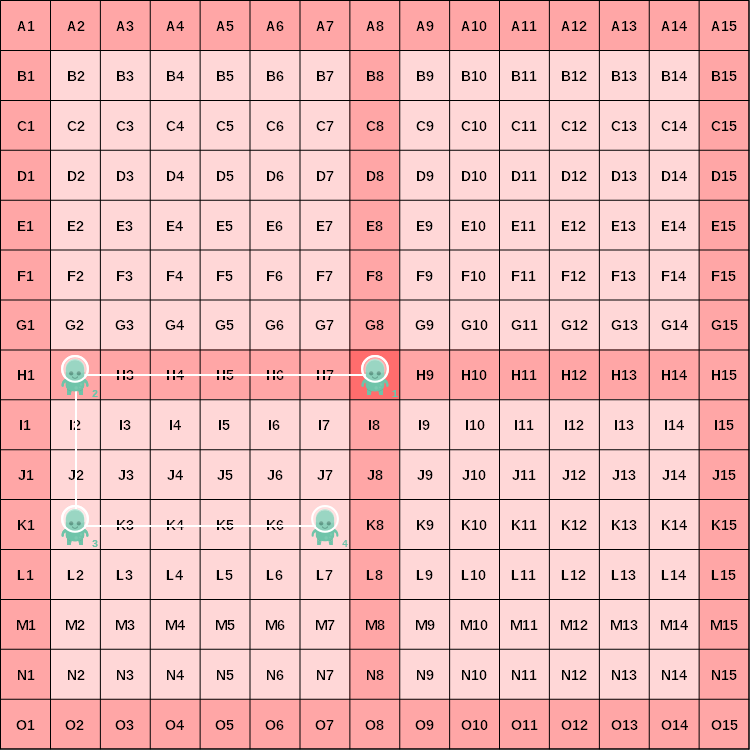
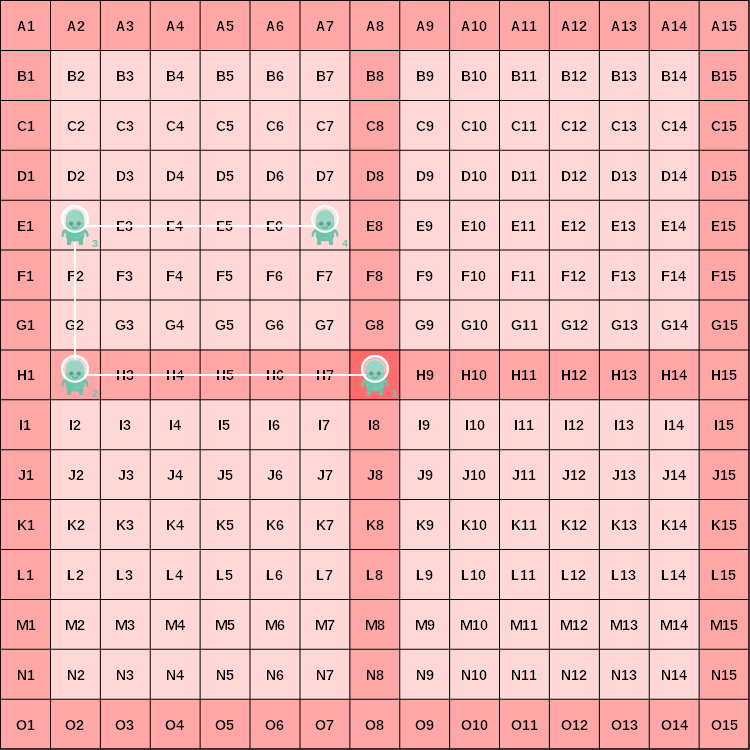
Correction de l'exo n°23

diff --git a/exercices/23.py b/exercices/23.py
@@ -6,7 +6,7 @@ c = a * b
 d = a + b
 
 gauche(6)
-if a > d :
+if c > d :
     haut(3)
 else :
     bas(3)
